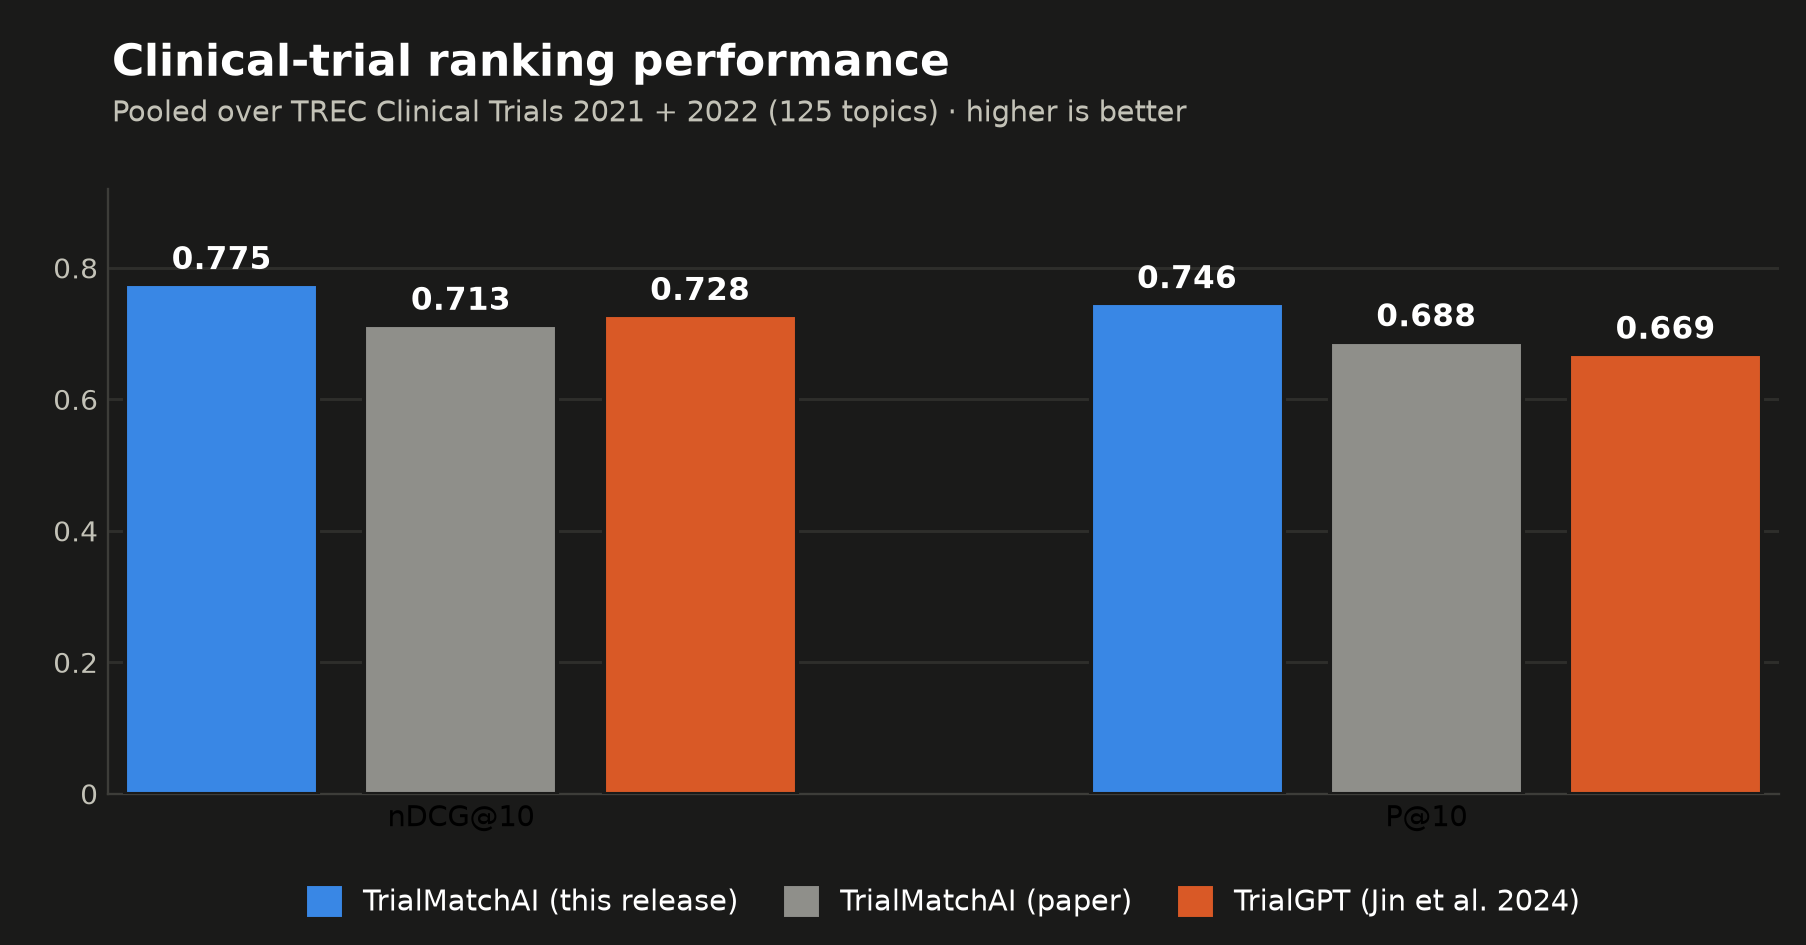
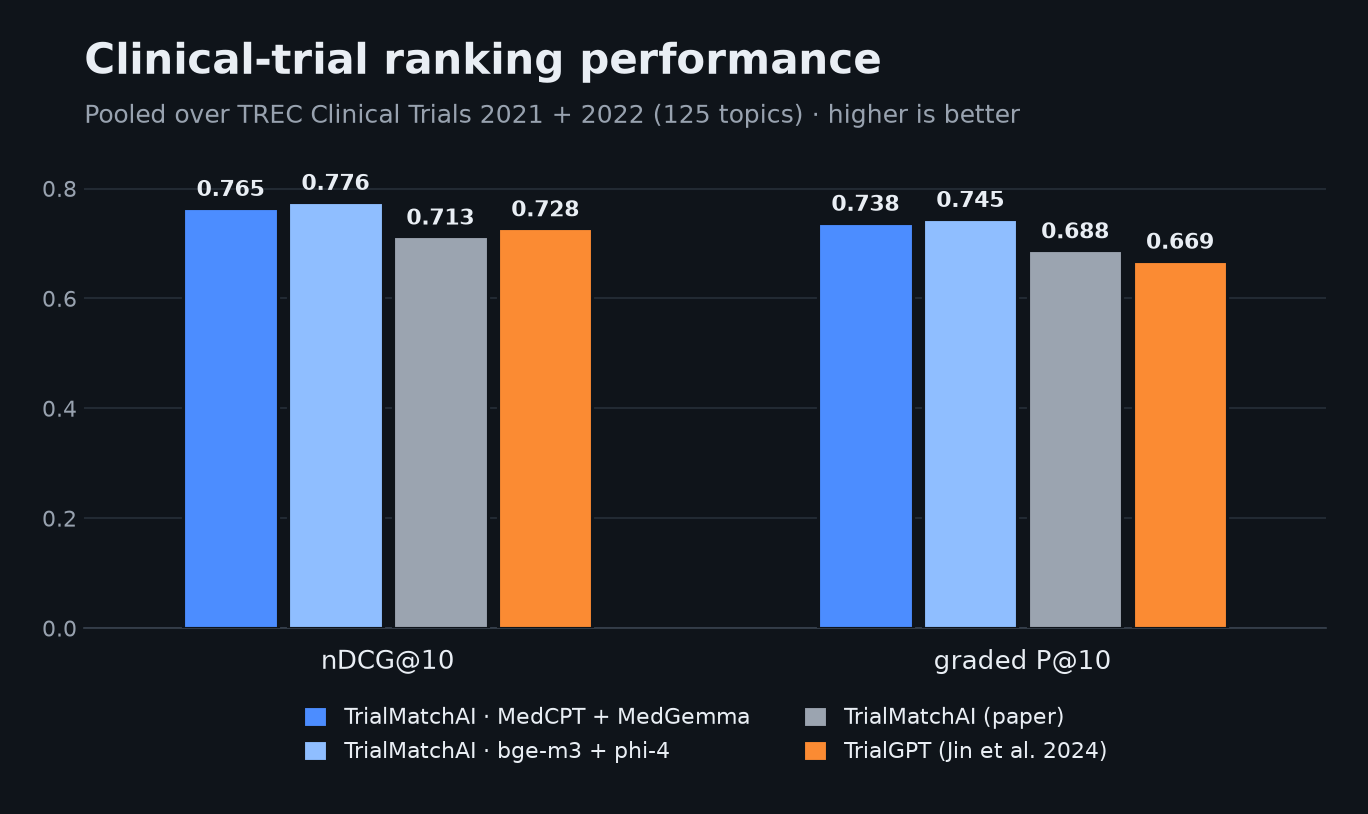
docs(readme): 4-way performance barplot (MedGemma / phi-4 / paper / TrialGPT)
Split the ranking-performance figure into the two TrialMatchAI configurations
(MedCPT+MedGemma and bge-m3+phi-4) alongside the paper and TrialGPT, using the
definitive 125-topic pooled numbers. Regenerated light + dark PNGs.

diff --git a/README.md b/README.md
@@ -36,20 +36,21 @@ Trials, models, indexes, and results all live on your own machine.
 ## Performance
 
 On the official **TREC Clinical Trials** benchmark (2021 + 2022, 125 topics pooled),
-this release ranks eligible trials more accurately than the published TrialMatchAI
-system (“paper”) and than **TrialGPT** (Jin et al., *Nature Communications* 2024):
+both TrialMatchAI configurations in this release — clinical **MedCPT + MedGemma** and
+general **bge-m3 + phi-4** — rank eligible trials more accurately than the published
+TrialMatchAI system (“paper”) and than **TrialGPT** (Jin et al., *Nature Communications* 2024):
 
 <picture>
   <source media="(prefers-color-scheme: dark)" srcset="docs/assets/performance_dark.png">
-  <img alt="Clinical-trial ranking performance on TREC CT 2021+2022 (pooled): nDCG@10 and P@10 for TrialMatchAI (this release) vs the paper vs TrialGPT" src="docs/assets/performance_light.png" width="760">
+  <img alt="Clinical-trial ranking performance on TREC CT 2021+2022 (pooled): nDCG@10 and graded P@10 for two TrialMatchAI configurations (MedCPT+MedGemma and bge-m3+phi-4) vs the paper vs TrialGPT" src="docs/assets/performance_light.png" width="760">
 </picture>
 
 <sub>nDCG@10 and graded P@10 pooled over TREC Clinical Trials 2021 + 2022 (125 topics),
-computed on judged trials. **This release** and the **paper** are evaluated with the
-identical ranking metric on the same topics, so that comparison is exact; **TrialGPT** is
-the value reported in Jin et al. (2024), whose evaluation additionally includes the SIGIR
-2016 cohort, so it is an indicative reference rather than a matched run. Reproduce ours with
-`trialmatchai trec --tracks "21 22"`.</sub>
+computed on judged trials. The two **TrialMatchAI** configurations and the **paper** are
+evaluated with the identical ranking metric on the same topics, so those comparisons are exact;
+**TrialGPT** is the value reported in Jin et al. (2024), whose evaluation additionally includes
+the SIGIR 2016 cohort, so it is an indicative reference rather than a matched run. Reproduce ours
+with `trialmatchai trec --tracks "21 22"`.</sub>
 
 **Retrieval recall by embedder** — the share of **eligible** trials (qrels grade 2) the
 first-level search surfaces among its top-*k* candidates, comparing four embedders: two